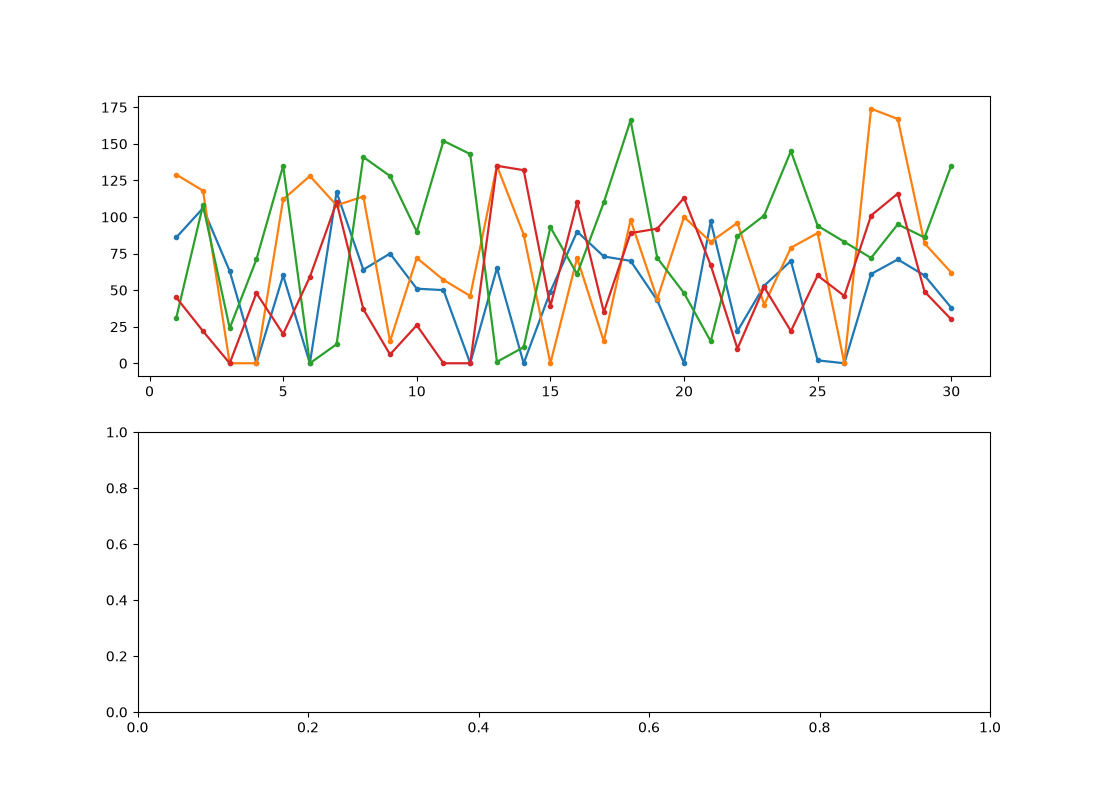
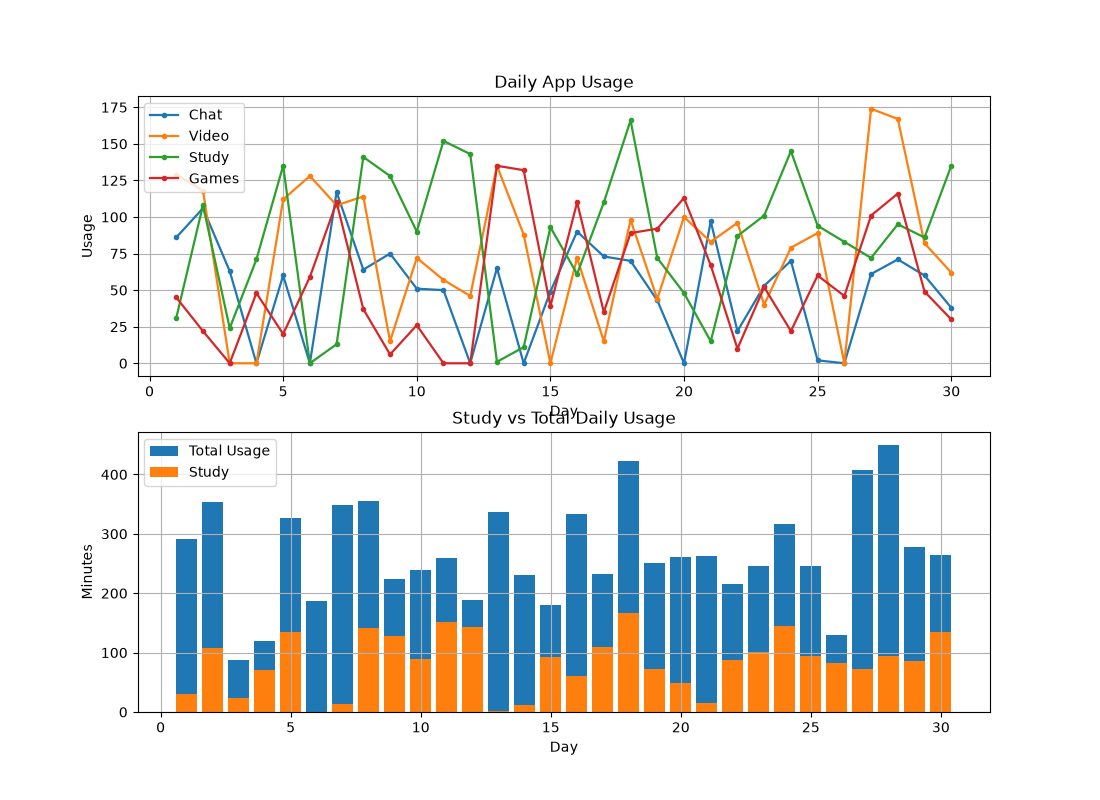
Add new projects and files

diff --git a/002_dataset_transformation/step_06.py b/002_dataset_transformation/step_06.py
@@ -19,5 +19,28 @@ for i,app in enumerate(Apps):
     ax1.plot(days,usage[:,i],marker="o",
              markersize=3,linewidth=1.6,label=app)
 
-fig.savefig("002_dataset_transformation/charts")
+ 
 
+plt.sca(ax1)
+
+plt.title("Daily App Usage")
+plt.xlabel("Day")
+plt.ylabel("Usage")
+plt.legend()
+plt.grid(True)
+
+ 
+
+ 
+plt.sca(ax2)
+
+ax2.bar(days, per_day, label="Total Usage")
+ax2.bar(days, usage[:, 2], label="Study")
+
+plt.title("Study vs Total Daily Usage")
+plt.xlabel("Day")
+plt.ylabel("Minutes")
+plt.legend()
+plt.grid(True)
+
+fig.savefig("002_dataset_transformation/charts")

diff --git a/001_digital_behaviour_analytic_lab/line_chart1.py b/001_digital_behaviour_analytic_lab/line_chart1.py
@@ -24,3 +24,11 @@ plt.legend()
 plt.xticks(rotation=45)
 plt.savefig("001_digital_behaviour_analytic_lab/charts/Study_VS_total")
 plt.close()
+
+plt.sca(ax1)
+
+plt.title("Daily App Usage")
+plt.xlabel("Day")
+plt.ylabel("Usage")
+plt.legend()
+plt.grid(True)
